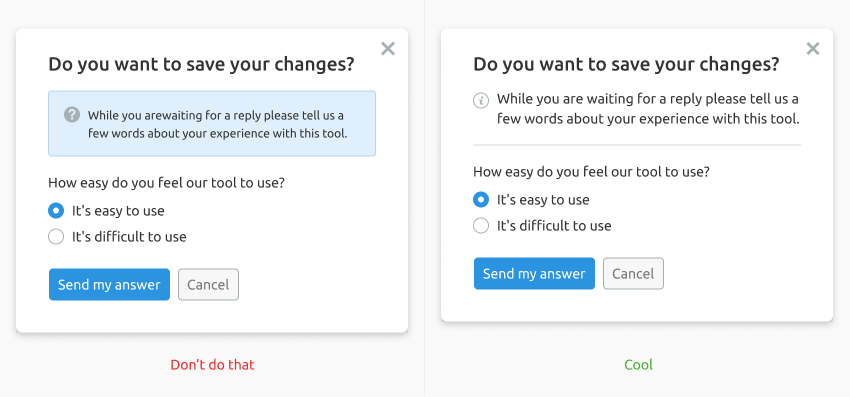
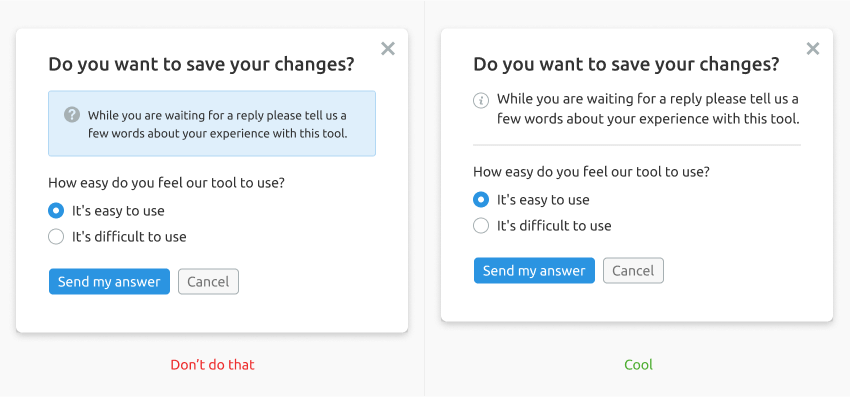
[Notice, Contact Us page] Update illustration, fix typos

Changed region(s): [[0.5506, 0.665, 0.7953, 0.7557], [0.0612, 0.6952, 0.2753, 0.7557], [0.1835, 0.272, 0.4282, 0.3023]]

diff --git a/website/client/pages/ContactUs.js b/website/client/pages/ContactUs.js
@@ -162,15 +162,15 @@ const Contacts = () => (
         .
         <Text>
           <Subtitle>Bug reporting & Improvements</Subtitle>
-          Find a bug — good job! ✨
+          Found a bug? Good job! ✨
           <ul>
             <li>
-              Make sure that issue tracker doesn`t contain the similar issue and create one with the
+              Make sure that issue tracker doesn't contain the similar issue and create one with the
               steps to reproduce the error.
             </li>
-            <li>Have a solution — great! We`ll be happy to review your pull-request.</li>
+            <li>Have a solution — great! We'll be happy to review your pull-request.</li>
             <li>
-              Don`t forget to follow
+              Don't forget to follow
               <a
                 href="https://github.com/semrush/intergalactic/blob/master/CONTRIBUTING.md"
                 target="_blank"
@@ -209,7 +209,7 @@ const Contacts = () => (
           We care about usability and will be happy to receive feedback on both the site and the
           experience with our components.
           <Subtitle>Ask a question</Subtitle>
-          Just write your message 🙂 Your email won`t be lost. We'll get back to you as soon as we
+          Just write your message 🙂 Your email won't be lost. We'll get back to you as soon as we
           can.
         </Text>
       </Email>
